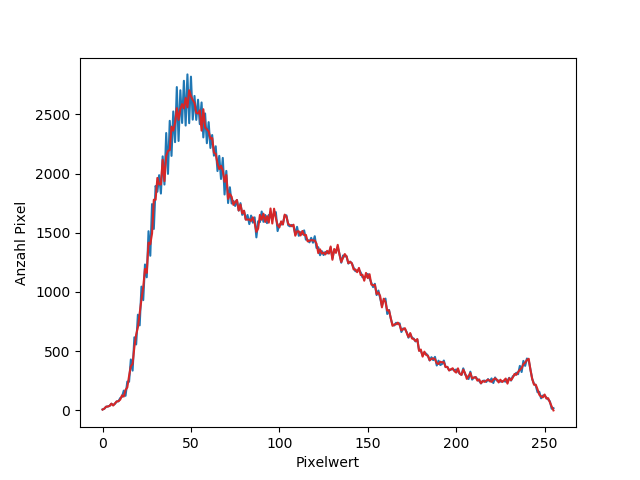
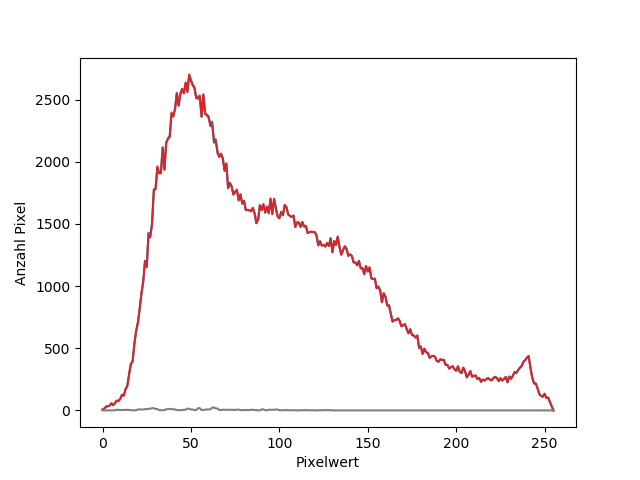
Subtraktion im Betrag

diff --git a/Steganalyse/encode.py b/Steganalyse/encode.py
@@ -22,9 +22,9 @@ img = Image.open("katze_gs.png")
 img = img.convert('L')
 width, height = img.size
 pixel_map = img.load()
-#text = "Mailand oder Madrid, hauptsache Italien."
-text = "Lorem ipsum dolor sit amet, consetetur sadipscing elitr, sed diam nonumy eirmod tempor invidunt ut labore et dolore magna aliquyam erat, sed diam voluptua. At vero eos et accusam et justo duo dolores et ea rebum. Stet clita kasd gubergren, no sea takimata sanctus est Lorem ipsum dolor sit amet. Lorem ipsum dolor sit amet, consetetur sadipscing elitr, sed diam nonumy eirmod tempor invidunt ut labore et dolore magna aliquyam erat, sed diam voluptua. At vero eos et accusam et justo duo dolores et ea rebum. Stet clita kasd gubergren, no sea takimata sanctus est Lorem ipsum dolor sit amet. Lorem ipsum dolor sit amet, consetetur sadipscing elitr, sed diam nonumy eirmod tempor invidunt ut labore et dolore magna aliquyam erat, sed diam voluptua. At vero eos et accusam et justo duo dolores et ea rebum. Stet clita kasd gubergren, no sea takimata sanctus est Lorem ipsum dolor sit amet. Duis autem vel eum iriure dolor in hendrerit in vulputate velit esse molestie consequat, vel illum dolore eu feugiat nulla facilisis at vero eros et accumsan et iusto odio dignissim qui blandit praesent luptatum zzril delenit augue duis dolore te feugait nulla facilisi. Lorem ipsum dolor sit amet, consectetuer adipiscing elit, sed diam nonummy nibh euismod tincidunt ut laoreet dolore magna aliquam erat volutpat. Ut wisi enim ad minim veniam, quis nostrud exerci tation ullamcorper suscipit lobortis nisl ut aliquip ex ea commodo consequat. Duis autem vel eum iriure dolor in hendrerit in vulputate velit esse molestie consequat, vel illum dolore eu feugiat nulla facilisis at vero eros et accumsan et iusto odio dignissim qui blandit praesent luptatum zzril delenit augue duis dolore te feugait nulla facilisi. Nam liber tempor cum soluta nobis eleifend option congue nihil imperdiet doming id quod mazim placerat facer possim assum. Lorem ipsum dolor sit amet, consectetuer adipiscing elit, sed diam nonummy nibh euismod tincidunt ut laoreet dolore magna aliquam erat volutpat. Ut wisi enim ad minim veniam, quis nostrud exerci tation ullamcorper suscipit lobortis nisl ut aliquip ex ea commodo consequat.   Duis autem vel eum iriure dolor in hendrerit in vulputte velit esse molestie consequat, vel illum dolore eu feugiat nulla facilisis. At vero eos et accusam et justo duo dolores et ea rebum. Stet clita kasd gubergren, no sea takimata sanctus est Lorem ipsum dolor sit amet. Lorem ipsum dolor sit amet, consetetur sadipscing elitr, sed diam nonumy eirmod tempor invidunt ut labore et dolore magna aliquyam erat, sed diam voluptua. At vero eos et accusam et justo duo dolores et ea rebum. Stet clita kasd gubergren, no sea takimata sanctus est Lorem ipsum dolor sit amet. Lorem ipsum dolor sit amet, consetetur sadipscing elitr, At accusam aliquyam diam diam dolore dolores duo eirmod eos erat, et nonumy sed tempor et et invidunt justo labore Stet clita ea et gubergren, kasd magna no rebum. sanctus sea sed takimata ut vero voluptua. est Lorem ipsum dolor sit amet. Lorem ipsum dolor sit amet, consetetur sadipscing elitr, sed diam nonumy eirmod tempor invidunt ut labore et dolore magna aliquyam erat. Consetetur sadipscing elitr, sed diam nonumy eirmod tempor invidunt ut labore et dolore magna aliquyam erat, sed diam voluptua. At vero eos et accusam et justo duo dolores et ea rebum. Stet clita kasd gubergren, no sea takimata sanctus est Lorem ipsum dolor sit amet. Lorem ipsum dolor sit amet, consetetur sadipscing elitr, sed diam nonumy eirmod tempor invidunt ut labore et dolore magna aliquyam erat, sed diam voluptua. At vero eos et accusam et justo duo dolores et ea rebum. Stet clita kasd gubergren, no sea takimata sanctus est Lorem ipsum dolor sit amet. Lorem ipsum dolor sit amet, consetetur sadipscing elitr, sed diam nonumy eirmod tempor invidunt ut labore et dolore magna aliquyam erat, sed diam voluptua. At vero eos et accusam et justo duo dolores et ea rebum. Stet clita kasd gubergren, no sea takimata sanctus. Lorem ipsum dolor sit amet, consetetur sadipscing elitr, sed diam nonumy eirmod tempor invidunt ut labore et dolore magna aliquyam erat, sed diam voluptua. At vero eos et accusam et justo duo dolores et ea rebum. Stet clita kasd gubergren, no sea takimata sanctus est Lorem ipsum dolor sit amet. Lorem ipsum dolor sit amet, consetetur sadipscing elitr, sed diam nonumy eirmod tempor invidunt ut labore et dolore magna aliquyam erat, sed diam voluptua. At vero eos et accusam et justo duo dolores et ea rebum. Stet clita kasd gubergren, no sea takimata sanctus est Lorem ipsum dolor sit amet. Lorem ipsum dolor sit amet, consetetur sadipscing elitr, sed diam nonumy eirmod tempor invidunt ut labore et dolore magna aliquyam erat, sed diam voluptua. At vero eos et accusam et justo duo dolores et ea rebum. Stet clita kasd gubergren, no sea takimata sanctus est Lorem ipsum dolor sit amet. Duis autem vel eum iriure dolor in hendrerit in vulputate velit esse molestie consequat, vel illum dolore eu feugiat nulla facilisis at vero eros et accumsan et iusto odio dignissim qui blandit praesent luptatum zzril delenit augue duis dolore te feugait nulla facilisi. Lorem ipsum dolor sit amet, consectetuer adipiscing elit, sed diam nonummy nibh euismod tincidunt ut laoreet dolore magna aliquam erat volutpat.Ut wisi enim ad minim veniam, quis nostrud exerci tation ullamcorper suscipit lobortis nisl ut aliquip ex ea commodo consequat. Duis autem vel eum iriure dolor in hendrerit in vulputate velit esse molestie consequat, vel illum dolore eu feugiat nulla facilisis at vero eros et accumsan et iusto odio dignissim qui blandit praesent luptatum zzril delenit augue duis dolore te feugait nulla facilisi. Nam liber tempor cum soluta nobis eleifend option congue nihil imperdiet doming id quod mazim placerat facer possim assum. Lorem ipsum dolor sit amet, consectetuer adipiscing elit, sed diam nonummy nibh euismod tincidunt ut laoreet dolore magna aliquam erat volutpat. Ut wisi enim ad minim veniam, quis nostrud exerci tation ullamcorper suscipit lobortis nisl ut aliquip ex ea commodo"
-text = 3 *  text
+text = "Mailand oder Madrid, hauptsache Italien."
+#text = "Lorem ipsum dolor sit amet, consetetur sadipscing elitr, sed diam nonumy eirmod tempor invidunt ut labore et dolore magna aliquyam erat, sed diam voluptua. At vero eos et accusam et justo duo dolores et ea rebum. Stet clita kasd gubergren, no sea takimata sanctus est Lorem ipsum dolor sit amet. Lorem ipsum dolor sit amet, consetetur sadipscing elitr, sed diam nonumy eirmod tempor invidunt ut labore et dolore magna aliquyam erat, sed diam voluptua. At vero eos et accusam et justo duo dolores et ea rebum. Stet clita kasd gubergren, no sea takimata sanctus est Lorem ipsum dolor sit amet. Lorem ipsum dolor sit amet, consetetur sadipscing elitr, sed diam nonumy eirmod tempor invidunt ut labore et dolore magna aliquyam erat, sed diam voluptua. At vero eos et accusam et justo duo dolores et ea rebum. Stet clita kasd gubergren, no sea takimata sanctus est Lorem ipsum dolor sit amet. Duis autem vel eum iriure dolor in hendrerit in vulputate velit esse molestie consequat, vel illum dolore eu feugiat nulla facilisis at vero eros et accumsan et iusto odio dignissim qui blandit praesent luptatum zzril delenit augue duis dolore te feugait nulla facilisi. Lorem ipsum dolor sit amet, consectetuer adipiscing elit, sed diam nonummy nibh euismod tincidunt ut laoreet dolore magna aliquam erat volutpat. Ut wisi enim ad minim veniam, quis nostrud exerci tation ullamcorper suscipit lobortis nisl ut aliquip ex ea commodo consequat. Duis autem vel eum iriure dolor in hendrerit in vulputate velit esse molestie consequat, vel illum dolore eu feugiat nulla facilisis at vero eros et accumsan et iusto odio dignissim qui blandit praesent luptatum zzril delenit augue duis dolore te feugait nulla facilisi. Nam liber tempor cum soluta nobis eleifend option congue nihil imperdiet doming id quod mazim placerat facer possim assum. Lorem ipsum dolor sit amet, consectetuer adipiscing elit, sed diam nonummy nibh euismod tincidunt ut laoreet dolore magna aliquam erat volutpat. Ut wisi enim ad minim veniam, quis nostrud exerci tation ullamcorper suscipit lobortis nisl ut aliquip ex ea commodo consequat.   Duis autem vel eum iriure dolor in hendrerit in vulputte velit esse molestie consequat, vel illum dolore eu feugiat nulla facilisis. At vero eos et accusam et justo duo dolores et ea rebum. Stet clita kasd gubergren, no sea takimata sanctus est Lorem ipsum dolor sit amet. Lorem ipsum dolor sit amet, consetetur sadipscing elitr, sed diam nonumy eirmod tempor invidunt ut labore et dolore magna aliquyam erat, sed diam voluptua. At vero eos et accusam et justo duo dolores et ea rebum. Stet clita kasd gubergren, no sea takimata sanctus est Lorem ipsum dolor sit amet. Lorem ipsum dolor sit amet, consetetur sadipscing elitr, At accusam aliquyam diam diam dolore dolores duo eirmod eos erat, et nonumy sed tempor et et invidunt justo labore Stet clita ea et gubergren, kasd magna no rebum. sanctus sea sed takimata ut vero voluptua. est Lorem ipsum dolor sit amet. Lorem ipsum dolor sit amet, consetetur sadipscing elitr, sed diam nonumy eirmod tempor invidunt ut labore et dolore magna aliquyam erat. Consetetur sadipscing elitr, sed diam nonumy eirmod tempor invidunt ut labore et dolore magna aliquyam erat, sed diam voluptua. At vero eos et accusam et justo duo dolores et ea rebum. Stet clita kasd gubergren, no sea takimata sanctus est Lorem ipsum dolor sit amet. Lorem ipsum dolor sit amet, consetetur sadipscing elitr, sed diam nonumy eirmod tempor invidunt ut labore et dolore magna aliquyam erat, sed diam voluptua. At vero eos et accusam et justo duo dolores et ea rebum. Stet clita kasd gubergren, no sea takimata sanctus est Lorem ipsum dolor sit amet. Lorem ipsum dolor sit amet, consetetur sadipscing elitr, sed diam nonumy eirmod tempor invidunt ut labore et dolore magna aliquyam erat, sed diam voluptua. At vero eos et accusam et justo duo dolores et ea rebum. Stet clita kasd gubergren, no sea takimata sanctus. Lorem ipsum dolor sit amet, consetetur sadipscing elitr, sed diam nonumy eirmod tempor invidunt ut labore et dolore magna aliquyam erat, sed diam voluptua. At vero eos et accusam et justo duo dolores et ea rebum. Stet clita kasd gubergren, no sea takimata sanctus est Lorem ipsum dolor sit amet. Lorem ipsum dolor sit amet, consetetur sadipscing elitr, sed diam nonumy eirmod tempor invidunt ut labore et dolore magna aliquyam erat, sed diam voluptua. At vero eos et accusam et justo duo dolores et ea rebum. Stet clita kasd gubergren, no sea takimata sanctus est Lorem ipsum dolor sit amet. Lorem ipsum dolor sit amet, consetetur sadipscing elitr, sed diam nonumy eirmod tempor invidunt ut labore et dolore magna aliquyam erat, sed diam voluptua. At vero eos et accusam et justo duo dolores et ea rebum. Stet clita kasd gubergren, no sea takimata sanctus est Lorem ipsum dolor sit amet. Duis autem vel eum iriure dolor in hendrerit in vulputate velit esse molestie consequat, vel illum dolore eu feugiat nulla facilisis at vero eros et accumsan et iusto odio dignissim qui blandit praesent luptatum zzril delenit augue duis dolore te feugait nulla facilisi. Lorem ipsum dolor sit amet, consectetuer adipiscing elit, sed diam nonummy nibh euismod tincidunt ut laoreet dolore magna aliquam erat volutpat.Ut wisi enim ad minim veniam, quis nostrud exerci tation ullamcorper suscipit lobortis nisl ut aliquip ex ea commodo consequat. Duis autem vel eum iriure dolor in hendrerit in vulputate velit esse molestie consequat, vel illum dolore eu feugiat nulla facilisis at vero eros et accumsan et iusto odio dignissim qui blandit praesent luptatum zzril delenit augue duis dolore te feugait nulla facilisi. Nam liber tempor cum soluta nobis eleifend option congue nihil imperdiet doming id quod mazim placerat facer possim assum. Lorem ipsum dolor sit amet, consectetuer adipiscing elit, sed diam nonummy nibh euismod tincidunt ut laoreet dolore magna aliquam erat volutpat. Ut wisi enim ad minim veniam, quis nostrud exerci tation ullamcorper suscipit lobortis nisl ut aliquip ex ea commodo"
+text = 10 *  text
 # ascii_list = text_to_ascii(text)
 binary_list = text_to_binary(text)
 

diff --git a/Steganalyse/Steganalyse_HistogrammAngriff.py b/Steganalyse/Steganalyse_HistogrammAngriff.py
@@ -9,7 +9,7 @@ anzahlpixel = width * height
 summepixelanzahl = 0
 
 X = []
-Y = []
+Ymanipuliert = []
 
 for pixel_value in range(256):
     count = 0
@@ -18,22 +18,22 @@ for pixel_value in range(256):
             if pixel_map[x, y] == pixel_value:
                 count += 1
     X.append(pixel_value)
-    Y.append(count)
-plot.plot(X,Y)
+    Ymanipuliert.append(count)
+plot.plot(X, Ymanipuliert)
 
 #Mittelwert für manipuliertes Bild bestimmen
-for ind in range(len(Y)):
-        summepixelanzahl = summepixelanzahl + Y[ind]
+for ind in range(len(Ymanipuliert)):
+        summepixelanzahl = summepixelanzahl + Ymanipuliert[ind]
 
-mittelwert_manipuliert = summepixelanzahl / len(Y)
+mittelwert_manipuliert = summepixelanzahl / len(Ymanipuliert)
 print("Mittelwert(manipuliert): " + str(mittelwert_manipuliert))
 
 #Varianz für Originalbild bestimmen
 summe_abweichungen_manipuliert = 0;
-for ind in range(len(Y)):
-        summe_abweichungen_manipuliert = summe_abweichungen_manipuliert + (Y[ind] - mittelwert_manipuliert)**2
+for ind in range(len(Ymanipuliert)):
+        summe_abweichungen_manipuliert = summe_abweichungen_manipuliert + (Ymanipuliert[ind] - mittelwert_manipuliert) ** 2
 
-varianz_manipuliert = summe_abweichungen_manipuliert / len(Y)
+varianz_manipuliert = summe_abweichungen_manipuliert / len(Ymanipuliert)
 print("Varianz(manipuliert): " + str(varianz_manipuliert))
 print("Standardabweichung(manipuliert): " + str(varianz_manipuliert**0.5))
 
@@ -45,7 +45,7 @@ anzahlpixel = width * height
 summepixelanzahl = 0
 
 X = []
-Y = []
+Yoriginal = []
 
 for pixel_value in range(256):
     count = 0
@@ -54,24 +54,34 @@ for pixel_value in range(256):
             if pixel_map[x, y] == pixel_value:
                 count += 1
     X.append(pixel_value)
-    Y.append(count)
+    Yoriginal.append(count)
 
 #Mittelwert für Originalbild bestimmen
-for ind in range(len(Y)):
-        summepixelanzahl = summepixelanzahl + Y[ind]
+for ind in range(len(Yoriginal)):
+        summepixelanzahl = summepixelanzahl + Yoriginal[ind]
 
-mittelwert_original = summepixelanzahl / len(Y)
+mittelwert_original = summepixelanzahl / len(Yoriginal)
 print("Mittelwert(Original): " + str(mittelwert_original))
 
 #Varianz für Originalbild bestimmen
 summe_abweichungen_original = 0;
-for ind in range(len(Y)):
-        summe_abweichungen_original = summe_abweichungen_original + (Y[ind] - mittelwert_original)**2
+for ind in range(len(Yoriginal)):
+        summe_abweichungen_original = summe_abweichungen_original + (Yoriginal[ind] - mittelwert_original) ** 2
 
-varianz_original = summe_abweichungen_original / len(Y)
+varianz_original = summe_abweichungen_original / len(Yoriginal)
 print("Varianz(Original): " + str(varianz_original))
 print("Standardabweichung(Original): " + str(varianz_original**0.5))
-plot.plot(X,Y,'C3')
+plot.plot(X, Yoriginal, 'C3')
+
+#Subtraktion von Original und manipuliertem Bild im Betrag
+Ysubbetrag = []
+for ind in range(len(Yoriginal)):
+        sub = Yoriginal[ind] - Ymanipuliert[ind]
+        sub = pow(sub,2)
+        Ysubbetrag.append(sub**0.5)
+plot.plot(X,Ysubbetrag,'C7')
+
+
 plot.xlabel("Pixelwert")
 plot.ylabel("Anzahl Pixel")
 plot.savefig('histogramm.png',dpi = 100);
